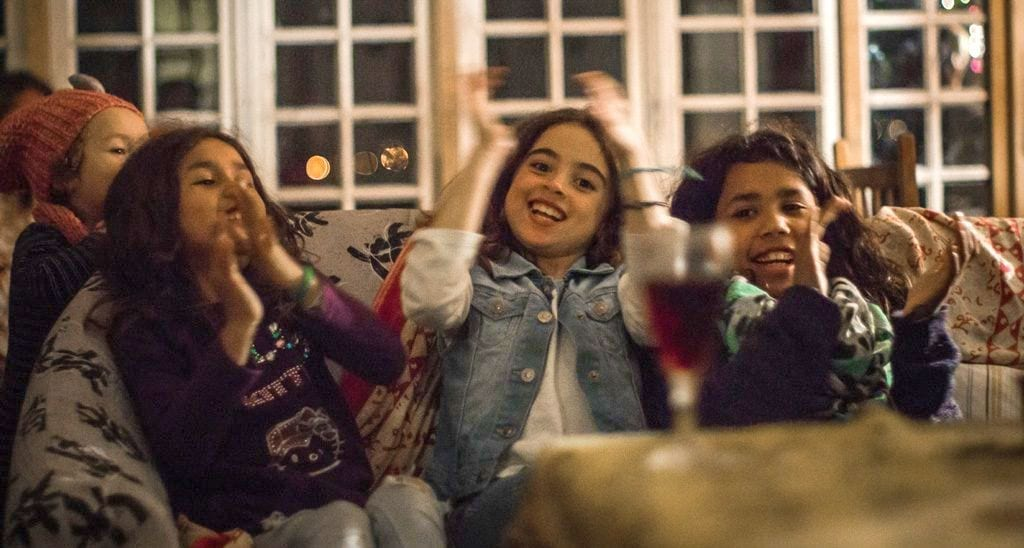
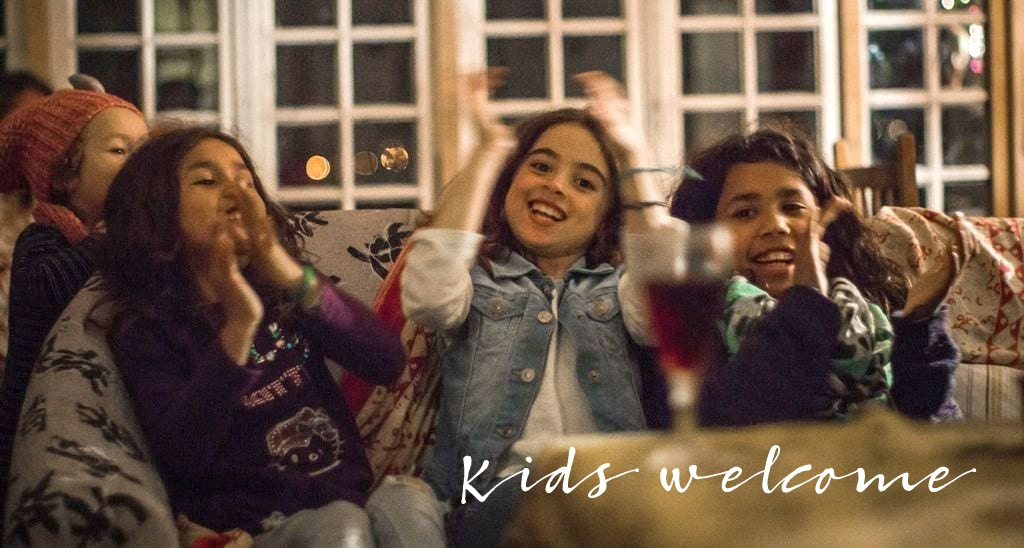
daniel's todos pt 1

Changed region(s): [[0.625, 0.8066, 0.9375, 0.8996], [0.4375, 0.8066, 0.625, 0.9307]]

diff --git a/src/data/links.js b/src/data/links.js
@@ -38,7 +38,7 @@ module.exports = {
       image: "/_assets/related/surfschool.jpg"
     },
     mountainBike: {
-      title: "Moutain Bike",
+      title: "Mountain Bike",
       path: "/de/mountain-bike",
       image: "/_assets/related/mountain-bike.jpg"
     },
@@ -71,10 +71,10 @@ module.exports = {
       path: "/de/preise"
     },
     booking: {
-      title: "Buchen",
+      title: "Booking",
     },
     onlineBooking: {
-      title: "Online Buchen",
+      title: "Online Booking",
       path: "https://da-silva-bike-surf-camp.bookinglayer.io/frontoffice/#/?lang=de",
     },
     bookingRequest: {
@@ -155,7 +155,7 @@ module.exports = {
       image: "/_assets/related/surfschool.jpg"
     },
     mountainBike: {
-      title: "Moutain Bike",
+      title: "Mountain Bike",
       path: "/en/mountain-bike",
       image: "/_assets/related/mountain-bike.jpg"
     },

diff --git a/src/styles/_price-table.scss b/src/styles/_price-table.scss
@@ -40,6 +40,7 @@ div.price-table>ul>li>ul>li:first-child {
   padding-top: 0;
   font-weight: $font-weight-title-small;
   color: $color-grey-dark-2;
+  border-top: 0;
 }
 
 // table content
@@ -50,6 +51,7 @@ div.price-table>ul>li>ul {
   font-size: $font-size-title-smallest;
   font-weight: $font-weight-title-smallest;
 
+
   @include respond(wide) {
     font-size: $font-size-title-smaller;
     font-weight: $font-weight-title-small;
@@ -59,6 +61,8 @@ div.price-table>ul>li>ul {
 // single reow
 div.price-table>ul>li>ul>li {
   padding: 0.8rem;
+  border-top: 1px solid #BBBBBB;
+
   @include respond(small) {
     padding: 0.4rem;
   }

diff --git a/src/pages/de/prices/directions-tips-activities.md b/src/pages/de/prices/directions-tips-activities.md
@@ -1,0 +1,33 @@
+---
+tags: prices
+partial: directions-tips-activities
+---
+
+## An- und Abreise
+
+Theoretisch kann man bei uns an jedem beliebigen Wochentag an- und abreisen. Da die Surfkurse aber immer montags anfangen und wir am Sonntag Abend unser Welcome-BBQ machen, empfiehlt es sich am Sonntag an- und abzureisen, nicht zuletzt auch wegen der Gruppendynamik, die sich im Laufe einer Woche automatisch entwickelt.
+
+Apropos, alles weitere zur Lage des Surfcamps ([Lourinhã und Praia da Areia Branca]({{links.de.surroundings.path}})) und wie Ihr zu uns kommt, erfahrt Ihr hier: [Anreise]({{links.de.travelDirections.path}}).
+
+## Beachruiser
+
+Für den Weg zum Strand oder einfach nur so zum Rumfahren könnt Ihr Euch bei uns jederzeit kostenlos schicke Beachcruiser ausleihen. Das ist cool und macht die Beine locker :o)
+
+## Verpflegung
+
+Im Rahmen unserer [Corona Clean & Safe Schutzmassnahmen](https://www.portugal-wellenreiten.de/re-opening-des-da-silva-surfcamp/) müssen wir leider auf die Gemeinschaftsküche verzichten aber lecker Essen gibt es trotzdem:
+- Das Frühstück wird im Aussenbereich an den Tischen serviert (kein Frühstücks-Buffet).
+- Täglicher Shuttle Service in Restaurants oder Fast-Food-Bestellung für alle (keine Gemeinschaftsküche)
+- Tiny Houses werden mit gefülltem Kühlschrank für das Frühstück übergeben.
+
+## Freizeit
+
+Wir bieten Euch nach dem Surfen immer die Möglichkeit etwas mit uns zu unternehmen. Dafür gibt es nahezu unbegrenzte Angebote. Einige Beispiele der Vergangenheit wie Longboard-Events, Fado Abende oder Go Kart Sessions findet Ihr hier.
+Es gibt kein festes Programm, sondern wir besprechen vor Ort, wozu Ihr am meisten Lust habt. Dann richten wir uns nach der Mehrheit. Die Fahrt mit unserem Shuttlebus übernehmen wir. Eventuelle Kosten, die an den Ausflugszielen anfallen, muss jeder selber tragen. Alles ist freiwillig und wird vor Ort spontan und individuell verabredet.
+
+## Sportliche Aktivitäten
+
+Skateboarding, Wakeboarding, Kitesurfen, Kartfahren, Tennis, Golf, Tauchen, Reiten, Paragliding und noch vieles mehr und in jüngster Vergangenheit insbesondere [Mountainbiking]({{links.de.mountainBike.path}}).
+
+Wenn die Wellen zu klein oder zu groß sind, wenn es zu stürmig ist oder in Strömen regnet, kann man leider nicht surfen gehen. Die Surfkurse fallen also nur aufgrund von höherer Gewalt aus. In so einem Fall bieten wir Euch die obenstehenden sportlichen Aktivitäten als Ausgleich an, die Kosten dafür können wir jedoch leider nicht übernehmen.
+

diff --git a/src/pages/de/home/corona.md b/src/pages/de/home/corona.md
@@ -3,7 +3,14 @@ tags: home
 partial: corona
 ---
 
-### Corona Schutzmassnahmen
+### Unsere Corona Clean & Safe Schutzmaßnahmen
 
-Wir freuen uns über das Re-Opening des Da Silva Surfcamp am 14. Juni 2020!
-Hier findest Du unsere [Corona Clean & Safe Schutzmassnahmen](https://www.portugal-wellenreiten.de/re-opening-des-da-silva-surfcamp/).
+- Das Frühstück wird im Aussenbereich an den Tischen serviert (kein Frühstücks-Buffet).
+- Täglicher Shuttle Service in Restaurants oder Fast-Food-Bestellung für alle (keine Gemeinschaftsküche)
+- Tiny Houses werden mit gefülltem Kühlschrank für das Frühstück übergeben.
+- Mehrbettzimmer nur an befreundete Gruppen oder Familien
+- Maskenpflicht in allen Gemeinschafts-Innenbereichen
+- Desinfektionsmittel steht überall zur Verfügung
+- Für weitere Infos auf unserem Blog: [Corona Clean & Safe Schutzmassnahmen](https://www.portugal-wellenreiten.de/re-opening-des-da-silva-surfcamp/).
+
+<br/>

diff --git a/src/pages/de/home/spirit-of-surfing-2.md b/src/pages/de/home/spirit-of-surfing-2.md
@@ -1,0 +1,10 @@
+---
+tags: home
+partial: spirit-of-surfing-2
+---
+
+#### Den »Spirit of Surfing« kennenlernen -
+#### nicht nur während der Surfstunden, sondern 24/7
+<br/>
+
+Das Da Silva Surfcamp Portugal ist ein typisch portugiesisches Landhaus in ruhiger Lage mit herrlichem Blick über die Landschaft bis zum Meer. Hier kommt zweimal täglich ein Hirte mit seiner Schafherde vorbei, morgens wird man vom Krähen eines Hahns geweckt und sonst hört man nur die Vögel zwitschern.Zum Strand läuft man zu Fuss in 20 Minuten, mit dem Beachcruiser, den man bei uns kostenlos ausleihen kann, dauert es nur 10 Minuten. Dieses Haus ist genau richtig für Leute, die mal etwas abschalten und dem Stress der Großstadt entfliehen möchten. Für Familien mit Kindern ist es hier ideal.

diff --git a/src/pages/en/home/spirit-of-surfing-2.md b/src/pages/en/home/spirit-of-surfing-2.md
@@ -1,0 +1,12 @@
+---
+tags: home
+partial: spirit-of-surfing-2
+---
+
+### Certified by the Portuguese Surfing Federation
+
+#### Get to know the “Spirit of Surfing” –
+#### during surf lessons, but 24/7.
+<br/>
+
+The Da Silva Surfcamp Portugal is a typical Portuguese country house in a quiet location with wonderful views over the countryside to the sea. Here a shepherd and his flock of sheep pass by twice a day, in the morning you are woken up by the crow of a rooster, otherwise you only hear the birds chirping. 20 minutes walk to the beach, with the beach cruiser, which you can rent for free, it only takes 10 minutes. This house is perfect for people who want to relax and escape the stress of the big city. It is ideal for families with children.

diff --git a/src/pages/de/home/booking-request.md b/src/pages/de/home/booking-request.md
@@ -3,4 +3,4 @@ tags: home
 partial: booking-request
 ---
 
-Buchen ohne Umwege, oder doch noch Fragen?! Bezüglich des Swells, der Surfschule oder rund ums Camp und seine Events? Antworten findet Ihr in unserem FAQ. Und wenn nicht, das Da Silva Surfcamp Portugal beantwortet Euch diese und Eure [Buchungsanfrage]({{links.de.bookingRequest.path}}) 24/7!
+Buchen ohne Umwege, oder doch noch Fragen?! Bezüglich des Swells, der Surfschule oder rund ums Camp und seine Events? Antworten findet Ihr in unserem [FAQ]({{links.de.bookingRequest.path}}). Und wenn nicht, das Da Silva Surfcamp Portugal beantwortet Euch diese und Eure [Buchungsanfrage]({{links.de.bookingRequest.path}}) 24/7!

diff --git a/src/pages/de/prices/bed-and-breakfast-prices.md b/src/pages/de/prices/bed-and-breakfast-prices.md
@@ -11,13 +11,13 @@ partial: bedAndBreakfastPrices
   - Single: 45 €
 - Mid Season
   - (April – June & Oct.)
-  - Multiple: 20 €
-  - Double: 25 €
-  - Ensuite /<br/>Tiny House: 30 €
-  - Single: 45 €
+  - Multiple: 25 €
+  - Double: 30 €
+  - Ensuite /<br/>Tiny House: 35 €
+  - Single: 55 €
 - High Season
   - (July – September)
-  - Multiple: 20 €
-  - Double: 25 €
-  - Ensuite /<br/>Tiny House: 30 €
-  - Single: 45 €
+  - Multiple: 30 €
+  - Double: 35 €
+  - Ensuite /<br/>Tiny House: 40 €
+  - Single: 65 €

diff --git a/README.md b/README.md
@@ -3,6 +3,7 @@ CMS for Da Silva Surfcamp
 - [Anforderungen](#anforderungen)
 - [Project Todos](#project-todos)
   - [MVP Release](#mvp-release)
+  - [Online Deploy](#online-deploy)
   - [Backlog](#backlog)
   - [Done](#done)
 - [Research](#research)
@@ -79,8 +80,8 @@ CMS for Da Silva Surfcamp
 
 ## MVP Release
 
-- [ ] Kids Welcome
-  - [ ] neue Fotos einbauen und Titelfoto austauschen
+- [x] Kids Welcome
+  - [x] neue Fotos einbauen und Titelfoto austauschen
 - [ ] Unterkunft
   - [ ] Textänderungen (siehe Ordner)
 - [ ] Umgebung

diff --git a/src/pages/de/prices/bed-and-breakfast.md b/src/pages/de/prices/bed-and-breakfast.md
@@ -3,7 +3,7 @@ tags: prices
 partial: bedAndBreakfast
 ---
 
-## Unterkunft
+## Bed & Breakfast
 
 ### ab 20 € pro Tag
 
